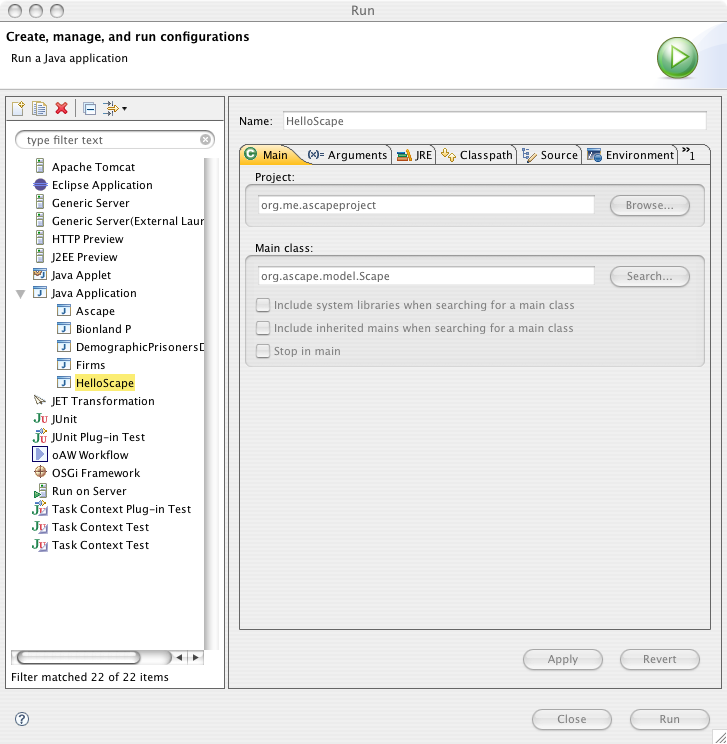
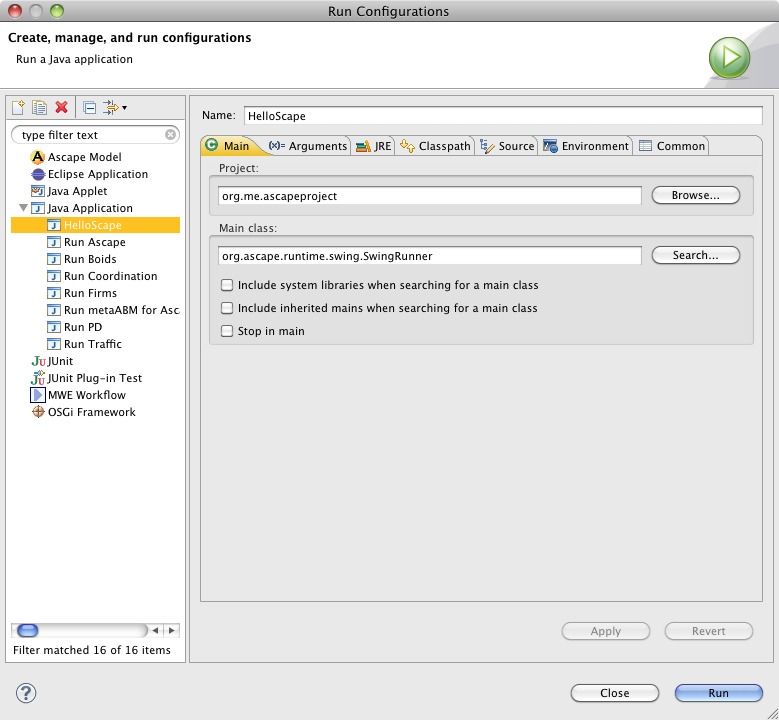
Final (?) content changes.
git-svn-id: https://svn.code.sf.net/p/ascape/code@238 2ffc291a-1739-0410-9760-962a5aa99289

diff --git a/org.ascape.doc/Content/manual/Overview.html b/org.ascape.doc/Content/manual/Overview.html
@@ -40,6 +40,9 @@ Tollander, Lisa Stuart, and many others...</i></p>
 </p>
 <p class="p9"><br>
 </p>
+<p class="p10"><a href="#forward"><b>Forward</b></a>.</p>
+<p class="p9"><br>
+</p>
 <p class="p10"><a href="#preface"><b>Preface</b></a>.</p>
 <p class="p9"><br>
 </p>
@@ -113,8 +116,72 @@ Tutorial</a></p>
 <p class="p11"><a href="Appendix.html#5.2">CoordinationGamePlayer.java</a></p>
 <p class="p15"><br>
 </p>
-
-
+<p class="p17"><br>
+</p>
+<p class="p17"><br>
+</p>
+<p class="p17"><br>
+</p>
+<p class="p17"><br>
+</p>
+<p class="p17"><br>
+</p>
+<p class="p17"><br>
+</p>
+<p class="p16"><a name="forward"><b>Forward.</b></a></p>
+<p class="p17"><br>
+</p>
+<p class="p19">I’m extremely grateful to Damon Centola for writing a manual that is both thoughtful and practical,
+and that captures the essence of the Ascape approach. Damon wrote this manual in 2002 -- eight years ago as I write
+this!</p>
+<p class="p20"><br>
+</p>
+<p class="p19">It's hard to believe that it has been a dozen years or so since I first started writing the code for
+Ascape while working at Brookings. I felt at the time that Ascape -- and especially the ideas behind Ascape -- had a lot
+to offer to the Agent-Based Modeling community, and I still feel that way. In fact, if I can be bold, there are ideas
+within Ascape that still have not been widely adopted or appreciated. I take some of the blame for not doing a better
+job of communicating these ideas and approaches, but I think a major factor was the failure of the various institutions
+involved to release Ascape into Open Source until other tools became much more widely used. The period spent trying to
+Ascape out to a broader audience was frustrating, and ironically that has made me a little hesitant in encouraging
+people to use it. There are a number of good ABM platforms available now. But while I've been heavily involved in
+developing other toolsets, I find that I keep coming back to Ascape -- I've simply found that it stands up very well
+against newer toolsets. It has a simple but very expressive design that allows deep exploration of modeling issues
+across many dimensions, the UI works well, and models are fast. And of course, many of the cannonical Agent-Based Models
+were written in Ascape and are available as part of the Ascape distribution. But then, I'm biased. I simply hope you'll
+give it a try and let us know what you think.</p>
+<p class="p20"><br>
+</p>
+<p class="p19">And there is a twist to the Ascape story. The Ascape API is a key component of a very modern set of
+tools that have been developed as part of the Eclipse Agent Modeling Platform project. Escape is a version of Ascape
+that is hosted within the Eclipse IDE. In fact, you can write your modeling code and execute it within the same
+environment. The really nice thing about Escape is that you can run Ascape models in it with very minor changes. AMP
+also provides high-level modeling tools that allow you to define ABMs at a very high-level with no programming involved,
+and then generate Java code from those models for Ascape, Escape and other platforms. Many of the Ascape design features
+will find their way into the next version of the Agent Modeling Framework meta-model, called Acore.</p>
+<p class="p20"><br>
+</p>
+<p class="p19">Since the time when Damon wrote this manual, Ascape has had a relativly stable API, but it has still
+changed in significant if subtle ways. In preparation for the open source release of Ascape in 2007, I attempted to
+update the code examples so that they will work with the released version. Over the last few days I've converted the
+manual to HTML and for the Eclipse built-in help system. (Please forgive any remaining formatting issues as there is
+only so much hand editing of HTML code that any one person should have to endure at a sitting!) This should make Damon's
+manual more accesible and directly usable for a wider audience. In a few places I have updated the text to reflect
+changes and improvements, and I hope Damon will excuse any inconsistencies that my slight revisions may introduce.</p>
+<p class="p20"><br>
+</p>
+<p class="p19">There are many potential improvements to the manual and now that it is in a standard text format that
+process will be much easier. This is an excellent opportunity for you, the reader, to become a contributor to the Ascape
+project; please let us know if you find any mistakes or would like to contribute to this document. And no matter what
+tool you end up using, I hope you enjoy diving deeper into the art of Agent-Based Modeling.</p>
+<p class="p17"><br>
+</p>
+<p class="p17"><br>
+</p>
+<p class="p22">-Miles T. Parker</p>
+<p class="p19">January 6, 2010</p>
+<p class="p20"><br>
+</p>
+<p class="p15"><br>
 <p class="p16"><a name="preface"><b>Preface.</b></a></p>
 <p class="p17"><br>
 </p>
@@ -167,41 +234,8 @@ Website)</p>
 <p class="p22">-Damon Centola</p>
 <p class="p23"><br>
 </p>
-<p class="p24">© The Brookings Institution 2002</p>
+<p class="p24">© The Brookings Institution 2002, Portions © Miles Parker 2010</p>
 <p class="p24">Ascape ©1998-2000 The Brookings Institution, ©2000-2007 NuTech Solutions, Inc., ©2007 Metascape, LLC.</p>
-<p class="p24">Original software engineer and architect of the framework: Miles Parker</p>
-<p class="p24">Project manager: Robert Axtell</p>
-<p class="p24">Directors, Ctr. on Social and Economic Dynamics: Carol Graham and Peyton Young</p>
-<p class="p24">Vice President of Economic Studies: Robert Litan</p>
-<p class="p15"><br>
-</p>
-<p class="p16"><a name="specialnote"><b>Special Note.</b></a></p>
-<p class="p17"><br>
-</p>
-<p class="p19">I’m extremely grateful to Damon Centola for writing a manual that is both thoughtful and practical,
-and that captures the essence of the Ascape approach. Damon wrote this manual five years ago, and since that time Ascape
-has changed in subtle but significant ways. In preparation for the open source release of Ascape, I’ve attempted to
-update the code examples so that they will work with the released version. In a few places I have updated the text to
-reflect changes and improvements, and I hope Damon will excuse any inconsistencies that my slight revisions may
-introduce.</p>
-<p class="p17"><br>
-</p>
-<p class="p22">-Miles T. Parker</p>
-<p class="p19">September, 2007</p>
-<p class="p17"><br>
-</p>
-<p class="p19">I’ve spent some time converting the manual to HTML and for Eclipse built-in help system. This should
-make Damon's manual more accesible and directly usable for a wider audience. Unfortuntaly, I haven't had the time to
-fully test all of the models for the latest version of Ascape. There are also lot's of opportunitied to improve the
-manual further and now that it is in a standard text format that process will be much easier. This is an excellent
-opportunity for you the reader to contribute to the Ascape project; please let us know if you find any mistakes or would
-like to contribute to this document.</p>
-<p class="p17"><br>
-</p>
-<p class="p22">-Miles T. Parker</p>
-<p class="p19">January, 2010</p>
-<p class="p20"><br>
-</p>
 <p class="p15"><br>
 </p>
 <p class="p25"><br>
@@ -290,52 +324,12 @@ fluency in Java.</p>
 <p class="p20"><br>
 </p>
 <p class="p20"><br>
+</p>
 <p class="p16"><a name="license"><b>License.</b></a></p>
 <p class="p19">This manual is included as a part of the Ascape model development package. Ascape was originally
 developed at the Brookings Insititution, subsequently improved and extended at Bios Group and NuTech Solutions, Inc. and
 has now been released under a BSD Open Source license. Ongoing development and maintenance is provided by Metascape,
 LLC, Brookings, NuTech Solutions, Inc., and others. No endorsements of any organizations or products by any other
 organization is implied or intended.</p>
-<p class="p20"><br>
-</p>
-<p class="p27">Ascape was developed for the Java platform and can run on any contemporary computer system. For a
-copy of the latest release of Ascape, please visit <a href="http://www.biosgroup.com/"><span class="s2">ascape.sourceforge.net</span></a>.</p>
-<p class="p2"><br>
-</p>
-<p class="p27">This is the complete text of the Ascape license:</p>
-<p class="p2"><br>
-</p>
-<p class="p28">Copyright 1998-2007 The Brookings Institution, NuTech Solutions,Inc., Metascape LLC, and
-contributors.</p>
-<p class="p29"><br>
-</p>
-<p class="p28">All rights reserved.</p>
-<p class="p29"><br>
-</p>
-<p class="p28">Redistribution and use in source and binary forms, with or without modification, are permitted
-provided that the following conditions are met:</p>
-<p class="p29"><br>
-</p>
-<p class="p28">Redistributions of source code must retain the above copyright notice, this list of conditions and
-the following disclaimer.</p>
-<p class="p29"><br>
-</p>
-<p class="p28">Redistributions in binary form must reproduce the above copyright notice,</p>
-<p class="p28">this list of conditions and the following disclaimer in the documentation</p>
-<p class="p28">and/or other materials provided with the distribution.</p>
-<p class="p29"><br>
-</p>
-<p class="p28">Neither the names of The Brookings Institution, NuTech Solutions,Inc. or Metascape LLC</p>
-<p class="p28">nor the names of its contributors may be used to endorse or promote products</p>
-<p class="p28">derived from this software without specific prior written permission.</p>
-<p class="p29"><br>
-</p>
-<p class="p28">THIS SOFTWARE IS PROVIDED BY THE COPYRIGHT HOLDERS AND CONTRIBUTORS "AS IS" AND ANY EXPRESS OR
-IMPLIED WARRANTIES, INCLUDING, BUT NOT LIMITED TO, THE IMPLIED WARRANTIES OF MERCHANTABILITY AND FITNESS FOR A
-PARTICULAR PURPOSE ARE DISCLAIMED. IN NO EVENT SHALL THE COPYRIGHT OWNER OR CONTRIBUTORS BE LIABLE FOR ANY DIRECT,
-INDIRECT, INCIDENTAL, SPECIAL,EXEMPLARY, OR CONSEQUENTIAL DAMAGES (INCLUDING, BUT NOT LIMITED TO,</p>
-<p class="p28">PROCUREMENT OF SUBSTITUTE GOODS OR SERVICES; LOSS OF USE, DATA, OR PROFITS; OR BUSINESS INTERRUPTION)
-HOWEVER CAUSED AND ON ANY THEORY OF LIABILITY, WHETHER IN CONTRACT, STRICT LIABILITY, OR TORT (INCLUDING NEGLIGENCE OR
-OTHERWISE) ARISING IN ANY WAY OUT OF THE USE OF THIS SOFTWARE, EVEN IF ADVISED OF THE POSSIBILITY OF SUCH DAMAGE.</p>
 </body>
 </html>

diff --git a/org.ascape.doc/Content/index_noside.html b/org.ascape.doc/Content/index_noside.html
@@ -37,6 +37,7 @@ body {
 }
 
 #main {
+	
 }
 
 #sidebarfake {
@@ -88,8 +89,7 @@ body {
 <LINK REL="stylesheet" TYPE="text/css" HREF="ascapestyle.css" TITLE="Style">
 <body>
 <div id="wrap">
-<div id="header">
-<IMG SRC="AscapeLogo.gif" WIDTH='181' HEIGHT='84'></IMG>
+<div id="header"><IMG SRC="AscapeLogo.gif" WIDTH='181' HEIGHT='84'></IMG>
 <h1>Ascape Guide</h1>
 <i>5.3.0</i> -- <i>Last updated: January 5, 2010</i>
 <P></P>
@@ -477,10 +477,8 @@ instructions below instead.</p>
 				<li>Now that we have created our model, we can launch it by selecting Run:Open Run Dialog. Create a new Java
 				Application configuration using the "add document" button at the upper-left. Ensure that the project name is correct
 				and set <code>org.ascape.runtime.swing.SwingRunner</code> as the main class.<BR>
-				<span class="alert">The screenshot below is out-of-date. Use SwingRunner, not org.ascape.model.Scape as the
-				main class.</span> <img align="middle" src="screens/EclipseHelloRunSettings.png" /></li>
-				<li>Under the Arguments tab enter your model class name (fully qualified!). It is also a good idea to make more
-				memory available by adding the obscure vm argument <code>-Xmx512M</code>.<BR />
+				<img align="middle" src="screens/EclipseHelloRunSettings.png" /></li>
+				<li>Under the Arguments tab enter your model class name (fully qualified!).<BR />
 				<img align="middle" src="screens/EclipseHelloRunSettingsP2.png" /></li>
 				<li>Click Run and launch your first Ascape model!<BR />
 				<img align="middle" src="screens/AscapeRunHello.png" /></li>
@@ -555,9 +553,9 @@ progression for use in a self-study tutorial.</p>
 <p>For the experienced programmer, Ascape is reasonably well documented internally. Ascape also includes extensive <a
 				href="api/index.html">javadoc documentation </a> and the source code is of course open and reasonably
 straightforward.</p>
-<p><a href="manual/Overview.html">The Ascape Model Developers Manual</a>, written by Damon Centola, and
-included in the documents download, provides an excellent introduction to Agent-Based Modeling in general including an
-introduction to many of the models featured here, and an extensive tutorial on developing Ascape models in particular. <span
+<p><a href="manual/Overview.html">The Ascape Model Developers Manual</a>, written by Damon Centola, and included in
+the documents download, provides an excellent introduction to Agent-Based Modeling in general including an introduction
+to many of the models featured here, and an extensive tutorial on developing Ascape models in particular. <span
 				class="info">As with Ascape, the manual was never released when the authors had hoped. While I have tried to
 update code samples, the manual may be slightly out of date with respect to new features. <i>-Miles</i></span></p>
 <p>Many people will have found there way here from reading Joshua Epstein's <a

diff --git a/org.ascape.doc/Content/index.html b/org.ascape.doc/Content/index.html
@@ -522,10 +522,8 @@ instructions below instead.</p>
 				<li>Now that we have created our model, we can launch it by selecting Run:Open Run Dialog. Create a new Java
 				Application configuration using the "add document" button at the upper-left. Ensure that the project name is correct
 				and set <code>org.ascape.runtime.swing.SwingRunner</code> as the main class.<BR>
-				<span class="alert">The screenshot below is out-of-date. Use SwingRunner, not org.ascape.model.Scape as the
-				main class.</span> <img align="middle" src="screens/EclipseHelloRunSettings.png" /></li>
-				<li>Under the Arguments tab enter your model class name (fully qualified!). It is also a good idea to make more
-				memory available by adding the obscure vm argument <code>-Xmx512M</code>.<BR />
+				<img align="middle" src="screens/EclipseHelloRunSettings.png" /></li>
+				<li>Under the Arguments tab enter your model class name (fully qualified!).<BR />
 				<img align="middle" src="screens/EclipseHelloRunSettingsP2.png" /></li>
 				<li>Click Run and launch your first Ascape model!<BR />
 				<img align="middle" src="screens/AscapeRunHello.png" /></li>
@@ -600,10 +598,10 @@ progression for use in a self-study tutorial.</p>
 <p>For the experienced programmer, Ascape is reasonably well documented internally. Ascape also includes extensive <a
 				href="api/index.html">javadoc documentation </a> and the source code is of course open and reasonably
 straightforward.</p>
-<p><a href="docs/TheAscapeManual5.pdf">(PDF)</a>  <a href="maunal/Overview.html">(HTML)</a> , written by Damon Centola, and
-included in the documents download, provides an excellent introduction to Agent-Based Modeling in general including an
-introduction to many of the models featured here, and an extensive tutorial on developing Ascape models in particular. <span
-				class="info">Please let us know if you find . <i>-Miles</i></span></p>
+<p><a href="docs/TheAscapeManual5.pdf">(PDF)</a> <a href="maunal/Overview.html">(HTML)</a> , written by Damon
+Centola, and included in the documents download, provides an excellent introduction to Agent-Based Modeling in general
+including an introduction to many of the models featured here, and an extensive tutorial on developing Ascape models in
+particular. <span class="info">Please let us know if you find . <i>-Miles</i></span></p>
 <p>Many people will have found there way here from reading Joshua Epstein's <a
 				href="http://press.princeton.edu/titles/8277.html"><i>Generative Social Science</i></a>, which collects
 ground-breaking work over many years into a single volume. For those who wish to understand these models at the deepest
